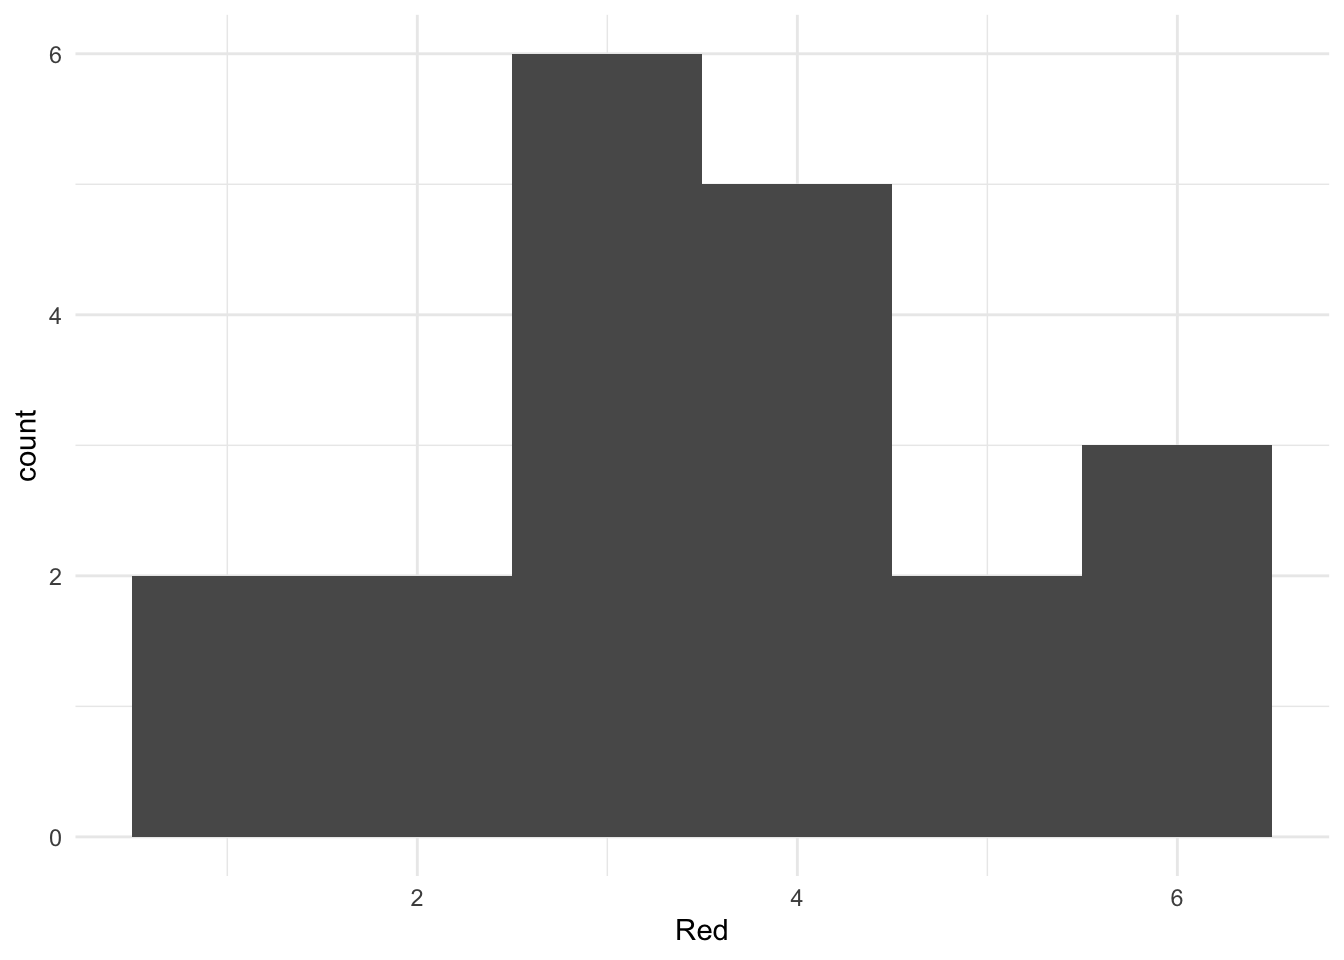
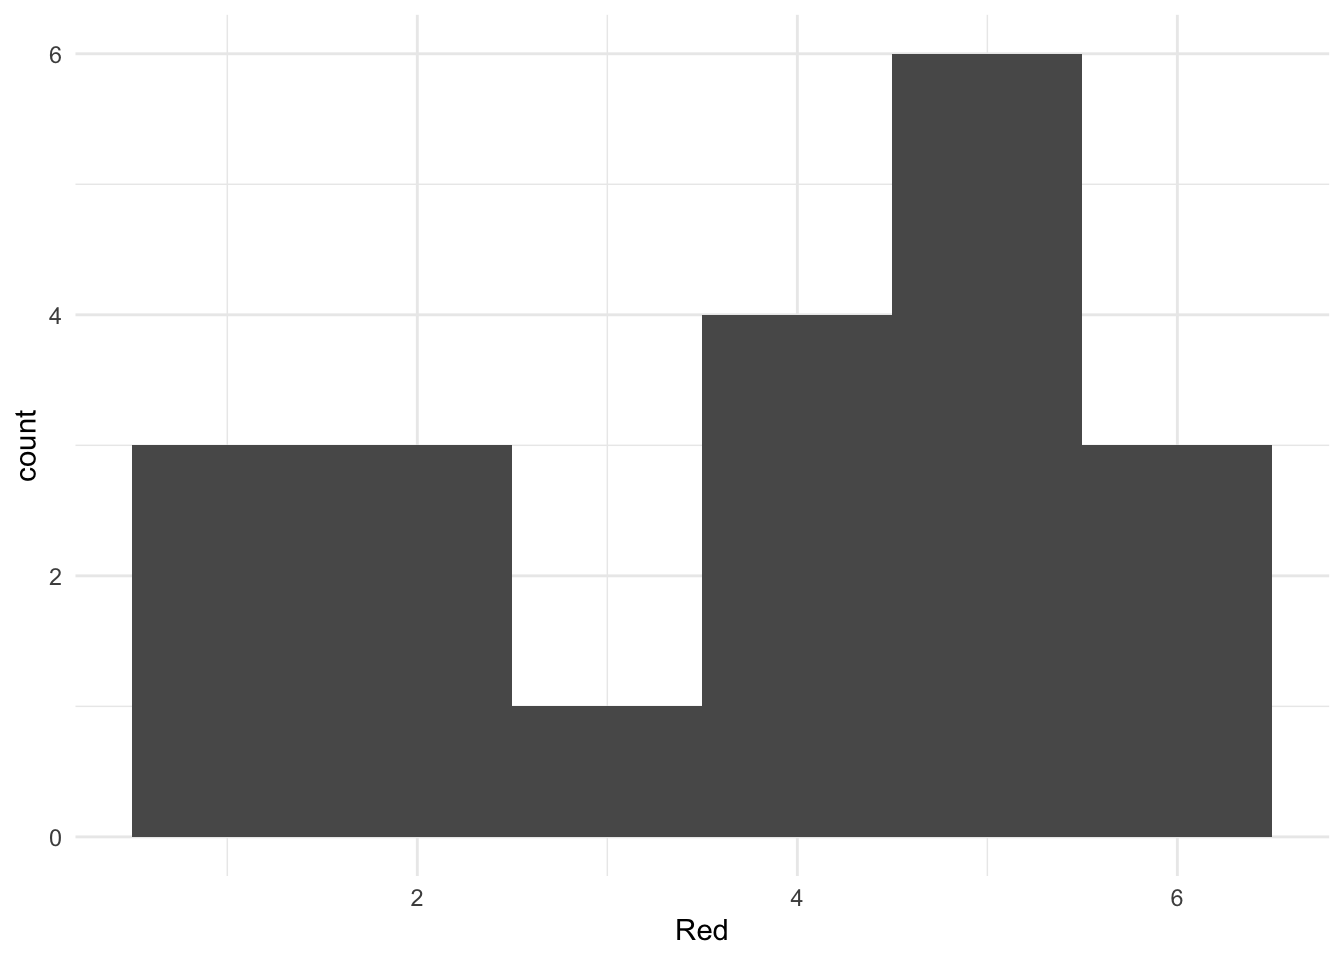
оппроп

Changed region(s): [[0.0938, 0.0312, 0.8125, 0.75]]

diff --git a/docs/probability.html b/docs/probability.html
@@ -166,7 +166,7 @@ code span.wa { color: #60a0b0; font-weight: bold; font-style: italic; } /* Warni
 <ul>
 <li class="chapter" data-level="4.1" data-path="probability.html"><a href="probability.html#random-variable"><i class="fa fa-check"></i><b>4.1</b> Случайная величина</a></li>
 <li class="chapter" data-level="4.2" data-path="probability.html"><a href="probability.html#дискретные-св-и-статистическое-определение-вероятности"><i class="fa fa-check"></i><b>4.2</b> Дискретные СВ и статистическое определение вероятности</a></li>
-<li class="chapter" data-level="4.3" data-path="probability.html"><a href="probability.html#столбчатая-диаграмма-и-гистограмма"><i class="fa fa-check"></i><b>4.3</b> Столбчатая диаграмма и гистограмма</a></li>
+<li class="chapter" data-level="4.3" data-path="probability.html"><a href="probability.html#столбчатая-диаграмма-и-отличия-от-гистограммы"><i class="fa fa-check"></i><b>4.3</b> Столбчатая диаграмма и отличия от гистограммы</a></li>
 <li class="chapter" data-level="4.4" data-path="probability.html"><a href="probability.html#непрерывные-св-и-геометрическое-определение-вероятности"><i class="fa fa-check"></i><b>4.4</b> Непрерывные СВ и геометрическое определение вероятности</a></li>
 <li class="chapter" data-level="4.5" data-path="probability.html"><a href="probability.html#график-плотности-вероятности-и-гистограмма"><i class="fa fa-check"></i><b>4.5</b> График плотности вероятности и гистограмма</a></li>
 </ul></li>
@@ -387,21 +387,21 @@ code span.wa { color: #60a0b0; font-weight: bold; font-style: italic; } /* Warni
 <span id="cb1-3"><a href="probability.html#cb1-3" tabindex="-1"></a>rolls <span class="ot">&lt;-</span> <span class="fu">dice</span>(<span class="dv">20</span>,<span class="dv">1</span>)</span>
 <span id="cb1-4"><a href="probability.html#cb1-4" tabindex="-1"></a><span class="fu">t</span>(rolls)</span></code></pre></div>
 <pre><code>##     [,1] [,2] [,3] [,4] [,5] [,6] [,7] [,8] [,9] [,10] [,11] [,12] [,13] [,14]
-## Red    6    4    4    4    3    1    5    3    4     3     2     6     1     6
+## Red    1    5    6    5    4    4    2    3    6     4     4     2     1     1
 ##     [,15] [,16] [,17] [,18] [,19] [,20]
-## Red     4     5     3     3     2     3</code></pre>
+## Red     5     5     5     6     2     5</code></pre>
 </div>
-<div id="столбчатая-диаграмма-и-гистограмма" class="section level2 hasAnchor" number="4.3">
-<h2><span class="header-section-number">4.3</span> Столбчатая диаграмма и гистограмма<a href="probability.html#столбчатая-диаграмма-и-гистограмма" class="anchor-section" aria-label="Anchor link to header"></a></h2>
+<div id="столбчатая-диаграмма-и-отличия-от-гистограммы" class="section level2 hasAnchor" number="4.3">
+<h2><span class="header-section-number">4.3</span> Столбчатая диаграмма и отличия от гистограммы<a href="probability.html#столбчатая-диаграмма-и-отличия-от-гистограммы" class="anchor-section" aria-label="Anchor link to header"></a></h2>
 <p>Построим таблицу частот выпадения каждой грани</p>
 <div class="sourceCode" id="cb3"><pre class="sourceCode r"><code class="sourceCode r"><span id="cb3-1"><a href="probability.html#cb3-1" tabindex="-1"></a><span class="fu">table</span>(rolls)</span></code></pre></div>
 <pre><code>## Red
 ## 1 2 3 4 5 6 
-## 2 2 6 5 2 3</code></pre>
+## 3 3 1 4 6 3</code></pre>
 <div class="sourceCode" id="cb5"><pre class="sourceCode r"><code class="sourceCode r"><span id="cb5-1"><a href="probability.html#cb5-1" tabindex="-1"></a><span class="fu">prop.table</span>(<span class="fu">table</span>(rolls))</span></code></pre></div>
 <pre><code>## Red
 ##    1    2    3    4    5    6 
-## 0.10 0.10 0.30 0.25 0.10 0.15</code></pre>
+## 0.15 0.15 0.05 0.20 0.30 0.15</code></pre>
 <p>Можем наглядно посмотреть это на <strong>столбчатой (или столбиковой) диаграмме</strong> – графике, отображающем частоты встречаемости событий дискретной переменной.</p>
 <div class="sourceCode" id="cb7"><pre class="sourceCode r"><code class="sourceCode r"><span id="cb7-1"><a href="probability.html#cb7-1" tabindex="-1"></a>rolls <span class="sc">%&gt;%</span> </span>
 <span id="cb7-2"><a href="probability.html#cb7-2" tabindex="-1"></a>  <span class="fu">ggplot</span>(<span class="fu">aes</span>(<span class="at">x=</span>Red)) <span class="sc">+</span></span>
@@ -471,7 +471,12 @@ code span.wa { color: #60a0b0; font-weight: bold; font-style: italic; } /* Warni
 <span id="cb17-3"><a href="probability.html#cb17-3" tabindex="-1"></a>  <span class="fu">geom_density</span>() <span class="sc">+</span></span>
 <span id="cb17-4"><a href="probability.html#cb17-4" tabindex="-1"></a>  <span class="fu">theme_minimal</span>()</span></code></pre></div>
 <p><img src="StatsForDA_files/figure-html/unnamed-chunk-11-1.png" width="672" />
-Он тоже показывает так, будто какие-то значения более частые, какие-то менее – но ситуация уже гораздо лучше. Здесь мы сгенерировали 10 значений, а если нам вдруг нужно визуализировать все возможные значения из отрезка [0;1], а х бесконечность? Тогда гистограмма вообще потеряет всякий смысл, так как разбивает все значения на столбики из конечных интервалов, а вот непрерывная линию будет подходящей – в непрерывной линии бесконечное число значений! То есть выходит следующая логика: для визуализации дискретных величин обычно используют гистограмму, для визуализации непрерывных – график плотности вероятности.</p>
+Он тоже показывает так, будто какие-то значения более частые, какие-то менее – но ситуация уже гораздо лучше. Здесь мы сгенерировали 10 значений, а если нам вдруг нужно визуализировать все возможные значения из отрезка [0;1], а х бесконечность? Тогда гистограмма вообще потеряет всякий смысл, так как разбивает все значения на столбики из конечных интервалов, а вот непрерывная линию будет подходящей – в непрерывной линии бесконечное число значений! То есть выходит следующая логика:</p>
+<ul>
+<li>для визуализации категориальных данных (номинативных и порядковых – количественных дискретных) используют столбчатую диаграмму (например, количество выбравших в опроснике ответ “1”, “2”, “3”; средняя температура по месяцам)</li>
+<li>для визуализации непрерывных величин на маленьком диапазоне, где хорошо выделяются интервалы, иногда для визуализации количественных дискретных (порядковых) данных – используют гистограмму;</li>
+<li>для визуализации непрерывных величин (шкала отношений, относительная шкала) – график плотности вероятности.</li>
+</ul>
 <p>Почему <strong>плотности вероятности</strong>, а не самой вероятности? Потому что как мы вывели выше, если бы мы считали точно именно вероятность, она бы стремилась к нулю. А засчет того, что это именно плотность, буквально, “тут побольше значений”, “тут поменьше значений” – получается осмысленный график. То есть, простыми словами, плотность вероятности – характер распределения вероятностей в самом значении и его окрестности. Если в интервале [0.25;0.35] оказалось (чисто случайно) мало значений, а в интервале [0.58;0.65] оказалось побольше – то на графике плотности вероятности мы увидим различия в вероятности для этих интервалов, хотя вероятность встретить каждое конкретное очень точно заданное число (например, 0.4857856) стремится к 0.
 Мы не будем рассматривать математически смысл плотности вероятности, но функция плотности вероятности является производной от функции самой вероятности.</p>
 <p>Попробуем сгенерировать этот же график для 500 и 10 000 точек и посмотреть, к чему будет стремиться график плотности вероятности в случае, когда мы случайно генерируем множество значений, все из которых равновероятны?</p>

diff --git a/docs/404.html b/docs/404.html
@@ -54,6 +54,70 @@
 <script src="libs/anchor-sections-1.1.0/anchor-sections.js"></script>
 
 
+<style type="text/css">
+pre > code.sourceCode { white-space: pre; position: relative; }
+pre > code.sourceCode > span { display: inline-block; line-height: 1.25; }
+pre > code.sourceCode > span:empty { height: 1.2em; }
+.sourceCode { overflow: visible; }
+code.sourceCode > span { color: inherit; text-decoration: inherit; }
+pre.sourceCode { margin: 0; }
+@media screen {
+div.sourceCode { overflow: auto; }
+}
+@media print {
+pre > code.sourceCode { white-space: pre-wrap; }
+pre > code.sourceCode > span { text-indent: -5em; padding-left: 5em; }
+}
+pre.numberSource code
+  { counter-reset: source-line 0; }
+pre.numberSource code > span
+  { position: relative; left: -4em; counter-increment: source-line; }
+pre.numberSource code > span > a:first-child::before
+  { content: counter(source-line);
+    position: relative; left: -1em; text-align: right; vertical-align: baseline;
+    border: none; display: inline-block;
+    -webkit-touch-callout: none; -webkit-user-select: none;
+    -khtml-user-select: none; -moz-user-select: none;
+    -ms-user-select: none; user-select: none;
+    padding: 0 4px; width: 4em;
+    color: #aaaaaa;
+  }
+pre.numberSource { margin-left: 3em; border-left: 1px solid #aaaaaa;  padding-left: 4px; }
+div.sourceCode
+  {   }
+@media screen {
+pre > code.sourceCode > span > a:first-child::before { text-decoration: underline; }
+}
+code span.al { color: #ff0000; font-weight: bold; } /* Alert */
+code span.an { color: #60a0b0; font-weight: bold; font-style: italic; } /* Annotation */
+code span.at { color: #7d9029; } /* Attribute */
+code span.bn { color: #40a070; } /* BaseN */
+code span.bu { color: #008000; } /* BuiltIn */
+code span.cf { color: #007020; font-weight: bold; } /* ControlFlow */
+code span.ch { color: #4070a0; } /* Char */
+code span.cn { color: #880000; } /* Constant */
+code span.co { color: #60a0b0; font-style: italic; } /* Comment */
+code span.cv { color: #60a0b0; font-weight: bold; font-style: italic; } /* CommentVar */
+code span.do { color: #ba2121; font-style: italic; } /* Documentation */
+code span.dt { color: #902000; } /* DataType */
+code span.dv { color: #40a070; } /* DecVal */
+code span.er { color: #ff0000; font-weight: bold; } /* Error */
+code span.ex { } /* Extension */
+code span.fl { color: #40a070; } /* Float */
+code span.fu { color: #06287e; } /* Function */
+code span.im { color: #008000; font-weight: bold; } /* Import */
+code span.in { color: #60a0b0; font-weight: bold; font-style: italic; } /* Information */
+code span.kw { color: #007020; font-weight: bold; } /* Keyword */
+code span.op { color: #666666; } /* Operator */
+code span.ot { color: #007020; } /* Other */
+code span.pp { color: #bc7a00; } /* Preprocessor */
+code span.sc { color: #4070a0; } /* SpecialChar */
+code span.ss { color: #bb6688; } /* SpecialString */
+code span.st { color: #4070a0; } /* String */
+code span.va { color: #19177c; } /* Variable */
+code span.vs { color: #4070a0; } /* VerbatimString */
+code span.wa { color: #60a0b0; font-weight: bold; font-style: italic; } /* Warning */
+</style>
 
 <style type="text/css">
   
@@ -101,11 +165,10 @@
 <li class="chapter" data-level="4" data-path="probability.html"><a href="probability.html"><i class="fa fa-check"></i><b>4</b> Вероятность и случайные величины</a>
 <ul>
 <li class="chapter" data-level="4.1" data-path="probability.html"><a href="probability.html#random-variable"><i class="fa fa-check"></i><b>4.1</b> Случайная величина</a></li>
-<li class="chapter" data-level="4.2" data-path="probability.html"><a href="probability.html#вероятность"><i class="fa fa-check"></i><b>4.2</b> Вероятность</a></li>
-<li class="chapter" data-level="4.3" data-path="probability.html"><a href="probability.html#дискретные-св-и-статистическое-определение-вероятности"><i class="fa fa-check"></i><b>4.3</b> Дискретные СВ и статистическое определение вероятности</a></li>
-<li class="chapter" data-level="4.4" data-path="probability.html"><a href="probability.html#столбчатая-диаграмма-и-гистограмма"><i class="fa fa-check"></i><b>4.4</b> Столбчатая диаграмма и гистограмма</a></li>
-<li class="chapter" data-level="4.5" data-path="probability.html"><a href="probability.html#непрерывные-св-и-геометрическое-определение-вероятности"><i class="fa fa-check"></i><b>4.5</b> Непрерывные СВ и геометрическое определение вероятности</a></li>
-<li class="chapter" data-level="4.6" data-path="probability.html"><a href="probability.html#график-плотности-вероятности-и-гистограмма"><i class="fa fa-check"></i><b>4.6</b> График плотности вероятности и гистограмма</a></li>
+<li class="chapter" data-level="4.2" data-path="probability.html"><a href="probability.html#дискретные-св-и-статистическое-определение-вероятности"><i class="fa fa-check"></i><b>4.2</b> Дискретные СВ и статистическое определение вероятности</a></li>
+<li class="chapter" data-level="4.3" data-path="probability.html"><a href="probability.html#столбчатая-диаграмма-и-отличия-от-гистограммы"><i class="fa fa-check"></i><b>4.3</b> Столбчатая диаграмма и отличия от гистограммы</a></li>
+<li class="chapter" data-level="4.4" data-path="probability.html"><a href="probability.html#непрерывные-св-и-геометрическое-определение-вероятности"><i class="fa fa-check"></i><b>4.4</b> Непрерывные СВ и геометрическое определение вероятности</a></li>
+<li class="chapter" data-level="4.5" data-path="probability.html"><a href="probability.html#график-плотности-вероятности-и-гистограмма"><i class="fa fa-check"></i><b>4.5</b> График плотности вероятности и гистограмма</a></li>
 </ul></li>
 <li class="chapter" data-level="5" data-path="distributions.html"><a href="distributions.html"><i class="fa fa-check"></i><b>5</b> Распределения</a>
 <ul>
